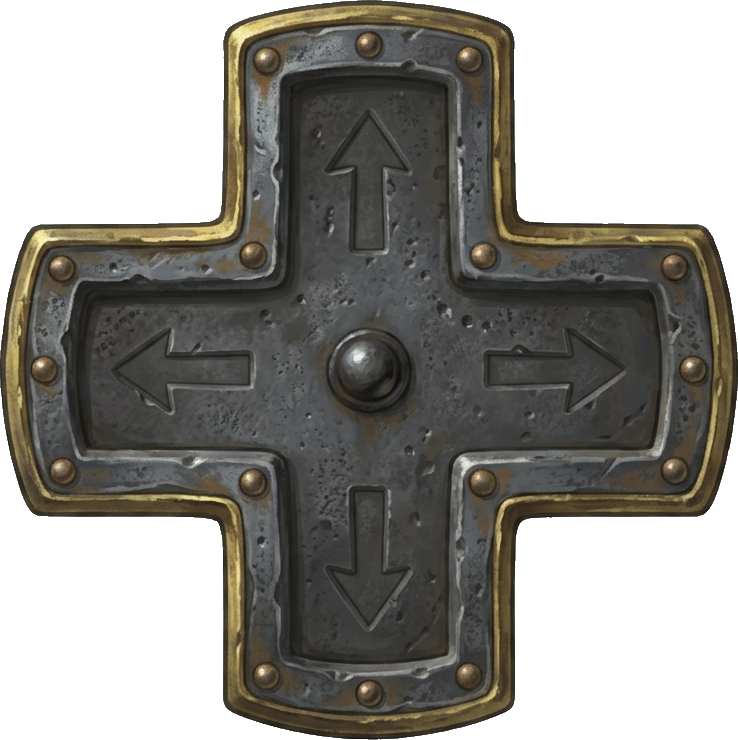
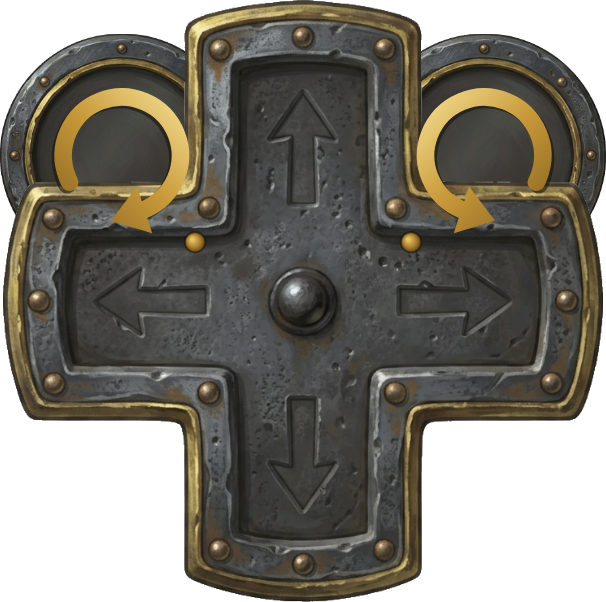
D-pad unificado: manoplas de girar embutidas na arte (sem botões soltos)
- Nova arte do D-pad com as manoplas de GIRAR (↺/↻) forjadas nas quinas
  superiores, compostas a partir dos próprios assets (a cruz + a base de
  botão + setas circulares douradas gravadas), com rebites de latão na
  solda p/ ficar tudo numa peça só — nada de dois botões soltos.
- controls.ts: removidos os botões flutuantes; agora só há zonas de toque
  invisíveis sobre cada manopla (canto pressionado acende igual aos braços).
  Zonas dos braços reajustadas p/ a nova arte (cima/baixo/strafe + quinas).

Claude-Session: https://claude.ai/code/session_013WvcxhCgG4YoQ53hJyUeUZ

diff --git a/grimhollow/src/game/controls.ts b/grimhollow/src/game/controls.ts
@@ -1962,24 +1962,11 @@ export function setupControls(
   move.appendChild(mkTap("back", "gh-ddown"));
   move.appendChild(mkTap("strafeLeft", "gh-dleft"));
   move.appendChild(mkTap("strafeRight", "gh-dright"));
-  // botões de GIRAR A VISÃO — nas QUINAS (cantos diagonais entre o braço de cima e
-  // os laterais), colados no D-pad. Mesma qualidade dos demais botões (base pintada
-  // + ícone). ↺ = girar à esquerda, ↻ = girar à direita.
-  const rotIcon = (flip: boolean) =>
-    `<svg class="gh-btn-ico" viewBox="0 0 24 24" fill="none" stroke="currentColor" ` +
-    `stroke-width="2.5" stroke-linecap="round" stroke-linejoin="round"` +
-    `${flip ? ' style="transform:scaleX(-1)"' : ""}>` +
-    `<path d="M9 5 L4.2 9 L9 12.6"/>` +
-    `<path d="M4.2 9 H12 A6 6 0 1 1 6.2 15.2"/></svg>`;
-  const mkRot = (action: Action, cls: string, flip: boolean) => {
-    const b = document.createElement("button");
-    b.className = "gh-btn gh-rot " + cls;
-    b.innerHTML = rotIcon(flip);
-    holdRepeat(b, action);
-    return b;
-  };
-  move.appendChild(mkRot("turnLeft", "gh-rotl", false));
-  move.appendChild(mkRot("turnRight", "gh-rotr", true));
+  // GIRAR A VISÃO — as manoplas ↺/↻ agora fazem parte da ARTE do D-pad (embutidas
+  // nas quinas superiores). Aqui só ficam as ZONAS DE TOQUE invisíveis por cima
+  // delas; a do canto pressionado acende igual aos braços. z acima das laterais.
+  move.appendChild(mkTap("turnLeft", "gh-drotl"));
+  move.appendChild(mkTap("turnRight", "gh-drotr"));
   pad.appendChild(move);
 
   // botão de interação (não repete) — manopla
@@ -3837,22 +3824,16 @@ function injectStyle() {
   .gh-dtap:active {
     background:radial-gradient(circle, rgba(255,226,140,0.5) 0%, rgba(255,210,110,0.18) 45%, rgba(255,210,110,0) 70%);
   }
-  .gh-dup    { left:30%; top:0;    width:40%; height:44%; }
-  .gh-ddown  { left:30%; bottom:0; width:40%; height:44%; }
-  .gh-dleft  { left:0;   top:30%;  width:44%; height:40%; }
-  .gh-dright { right:0;  top:30%;  width:44%; height:40%; }
-  /* GIRAR — botões "de quina" grudados nos cantos superiores do D-pad (entre o
-     braço de cima e os laterais). Menores que os de ação, mas mesma arte/base. A
-     cor dourada os distingue do movimento; z acima das zonas de toque. */
-  .gh-rot {
-    position:absolute; width:44px; height:44px; z-index:2;
-    color:#f0d488;
-    filter:drop-shadow(0 0 7px rgba(240,200,90,0.35)) drop-shadow(0 3px 7px rgba(0,0,0,.55));
-  }
-  .gh-rot .gh-btn-ico { width:56%; height:56%; }
-  .gh-rotl { left:-9px;  top:-9px; }
-  .gh-rotr { right:-9px; top:-9px; }
-  .gh-rot:active { transform:scale(0.9); filter:drop-shadow(0 0 9px rgba(240,200,90,0.7)) brightness(1.2); }
+  /* a arte do D-pad já traz as manoplas de girar embutidas nas quinas de cima; as
+     zonas de toque cobrem cada parte. braços = mover; quinas = girar. */
+  .gh-dup    { left:33%; top:0;    width:34%; height:26%; }
+  .gh-ddown  { left:33%; bottom:0; width:34%; height:44%; }
+  .gh-dleft  { left:0;   top:44%;  width:40%; height:34%; }
+  .gh-dright { right:0;  top:44%;  width:40%; height:34%; }
+  /* GIRAR — manoplas "de quina" (embutidas na arte); zonas de toque nos cantos
+     superiores, acima das laterais/braço de cima. */
+  .gh-drotl { left:0;   top:4%; width:31%; height:40%; z-index:2; }
+  .gh-drotr { right:0;  top:4%; width:31%; height:40%; z-index:2; }
   /* AÇÃO — canto inferior DIREITO (perto da arma/polegar): ataque em destaque
      embaixo, interagir logo acima. */
   .gh-atk {
@@ -3993,8 +3974,6 @@ function injectStyle() {
     #gh-journal-btn { left:calc(50% + 26px); }
     /* d-pad e ação recuados nos cantos de baixo, um pouco menores */
     .gh-move { left:10px; bottom:10px; width:108px; height:108px; }
-    .gh-rot { width:40px; height:40px; }
-    .gh-rotl { left:-8px; top:-8px; } .gh-rotr { right:-8px; top:-8px; }
     .gh-atk  { right:12px; bottom:12px; width:54px; height:54px; }
     .gh-act  { right:76px; bottom:14px; width:50px; height:50px; }
     /* bandeja de itens logo acima do d-pad */
